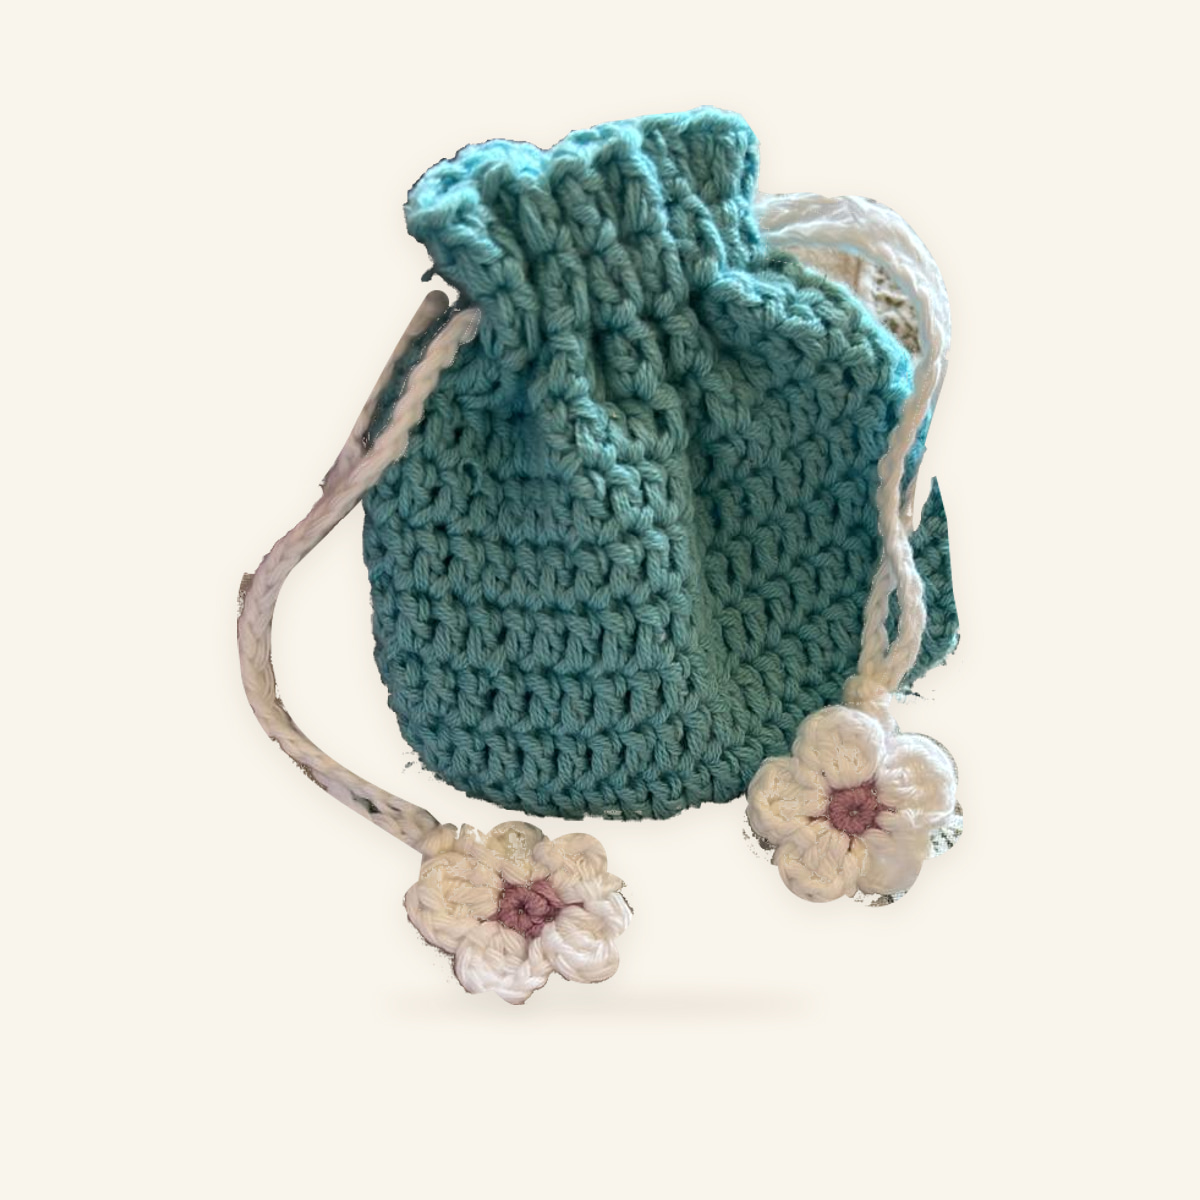
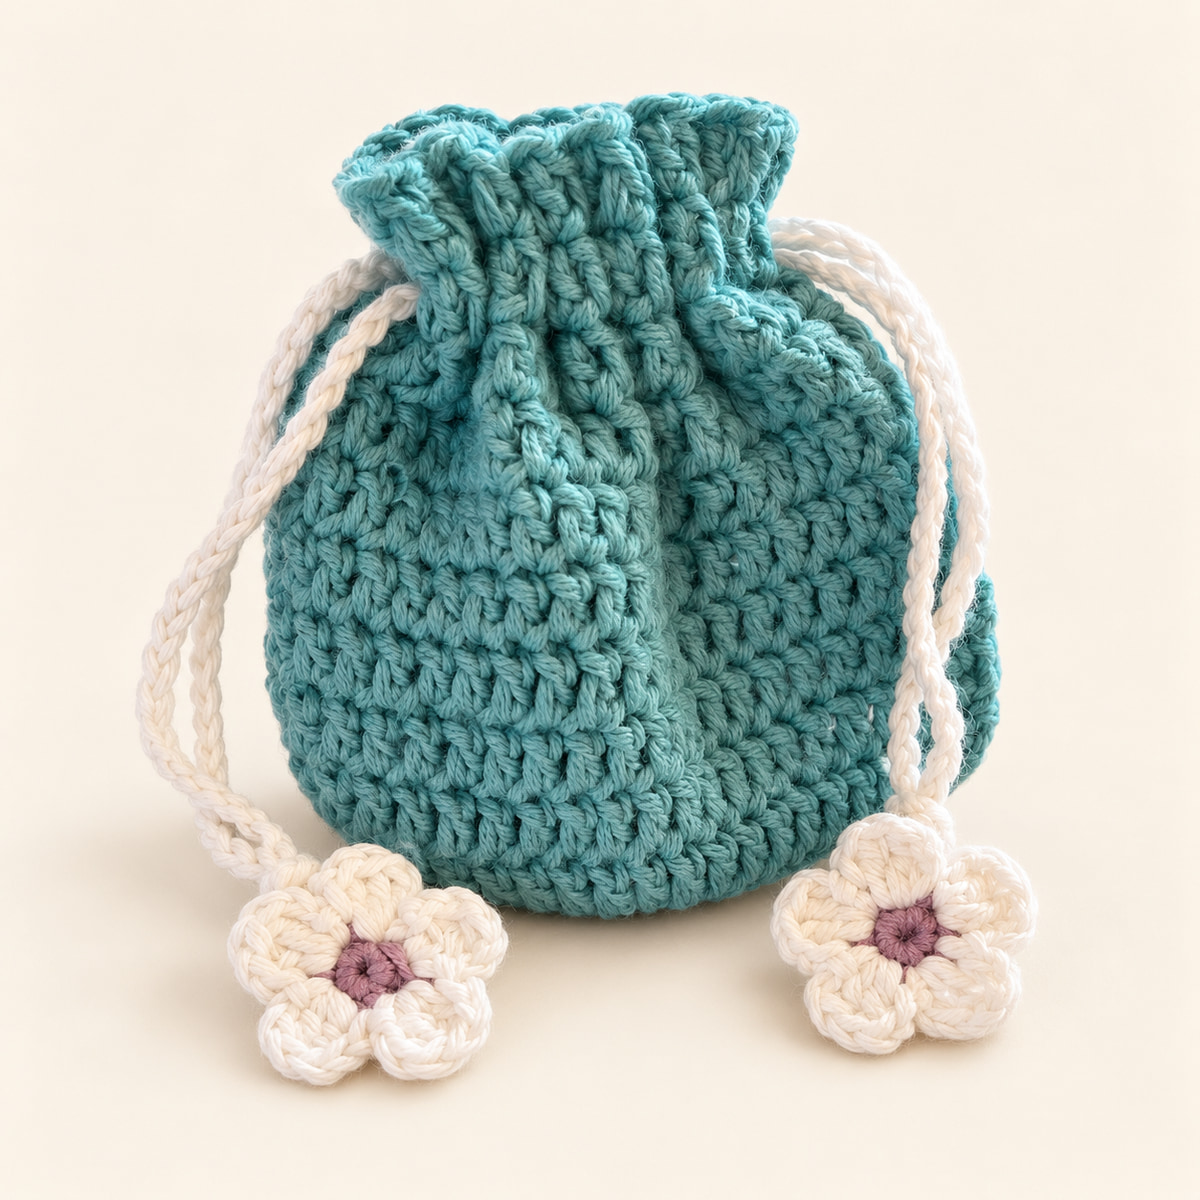
Instagram link, Poster option and AI-remade product photos (#5)
* Add the Instagram link and a Poster option to the order form

Links @amais.candles in the order section and the footer, and adds
"A poster" as a third choice under "What would you like?".

Claude-Session: https://claude.ai/code/session_019k5tYpwxhVCZ1qmwiBCeUF

* Use the AI-remade product photos for every gallery piece

Swaps all 25 gallery photos for the AI-remade versions Ayush approved in
the preview, including a new photo for the pink daisy jar.

Claude-Session: https://claude.ai/code/session_019k5tYpwxhVCZ1qmwiBCeUF

---------

diff --git a/index.html b/index.html
@@ -225,6 +225,8 @@ section.block { padding-block: 84px; }
 .site-footer .wrap { display: flex; flex-wrap: wrap; justify-content: space-between; align-items: center; gap: 20px; }
 .site-footer img { height: 30px; width: auto; }
 .site-footer p { color: var(--ink-soft); font-size: var(--step--1); }
+.site-footer a, .order-alt a { color: var(--flame-text); font-weight: 700; }
+.order-alt { color: var(--ink-soft); }
 .site-footer .script { font-family: var(--font-script); color: var(--ink); font-size: 2rem; font-weight: 600; line-height: 1; }
 
 @media (max-width: 860px) {
@@ -521,7 +523,7 @@ section.block { padding-block: 84px; }
         <p>Tell me what you'd like and I'll make it to order. Here's how it works.</p>
       </div>
       <ol class="steps">
-        <li><h3>Choose a piece</h3><p>A candle, earrings, a necklace, coasters or a pouch.</p></li>
+        <li><h3>Choose a piece</h3><p>A candle, earrings, a necklace, coasters, a pouch or a poster.</p></li>
         <li><h3>Pick your colours</h3><p>If you're matching an outfit or a room, tell me.</p></li>
         <li><h3>Add the details</h3><p>The size, a scent for candles, and when you need it by.</p></li>
         <li><h3>Send it to me</h3><p>I'll get back to you to go over the details and the price.</p></li>
@@ -530,6 +532,7 @@ section.block { padding-block: 84px; }
         <div class="order-intro">
           <h3>Tell me what you'd like</h3>
           <p class="note">I read every one of these myself.</p>
+          <p class="order-alt">You can also message me on <a href="https://www.instagram.com/amais.candles/" target="_blank" rel="noopener">Instagram @amais.candles</a>.</p>
         </div>
         <form class="order" name="custom-order" method="POST" action="/thanks.html" data-netlify="true" netlify-honeypot="bot-field">
           <input type="hidden" name="form-name" value="custom-order">
@@ -549,6 +552,7 @@ section.block { padding-block: 84px; }
             <div class="choices">
               <label><input type="radio" name="product" value="Candle" required> A candle</label>
               <label><input type="radio" name="product" value="Crochet"> Crochet</label>
+              <label><input type="radio" name="product" value="Poster"> A poster</label>
             </div>
           </fieldset>
           <label class="full">Tell me about it <span class="hint">Colours, a scent for candles, the size, and what it's for</span>
@@ -610,6 +614,7 @@ section.block { padding-block: 84px; }
     <img class="on-light" src="images/logo-wordmark.png" alt="Amai's Candles" width="813" height="147">
     <img class="on-dark" src="images/logo-wordmark-light.png" alt="Amai's Candles" width="813" height="147">
     <p class="script">Handpoured with love</p>
+    <p><a href="https://www.instagram.com/amais.candles/" target="_blank" rel="noopener">Instagram @amais.candles</a></p>
     <p>Candles and crochet, made by hand at home. © 2026 Amai's Candles</p>
   </div>
 </footer>
